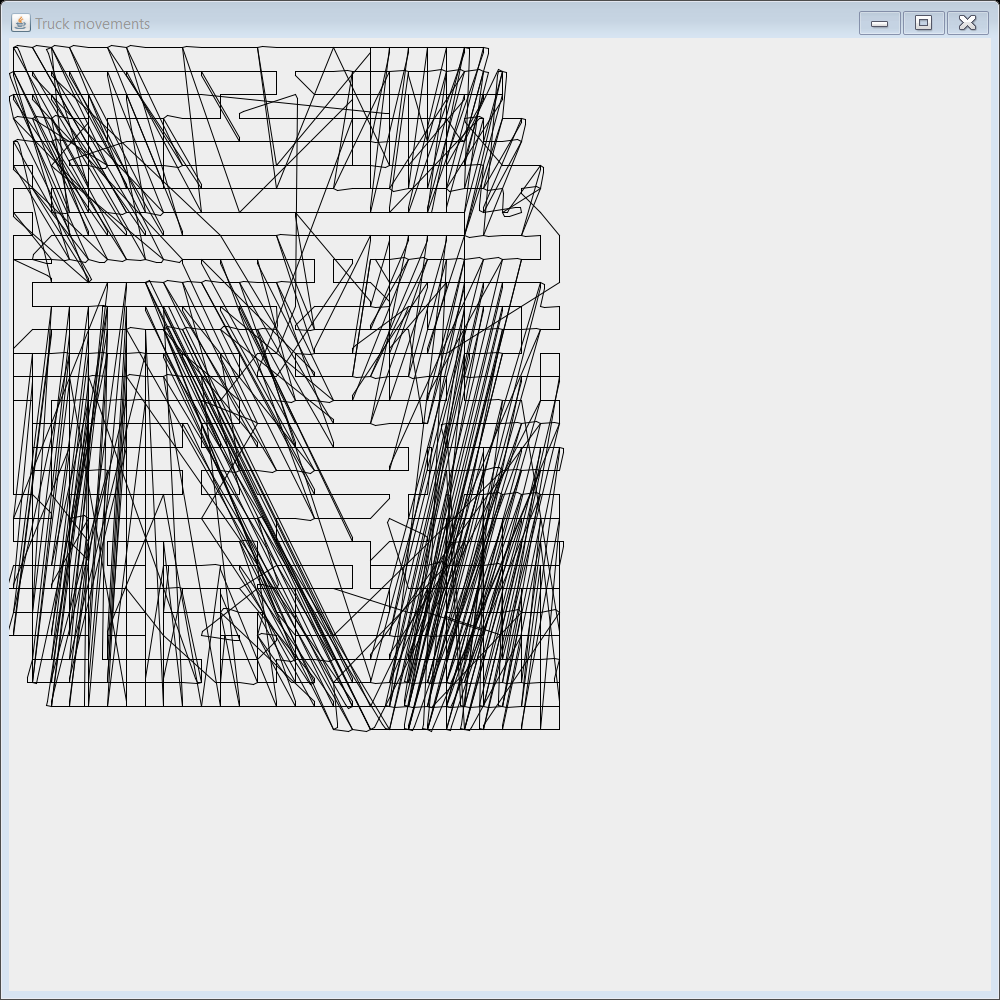
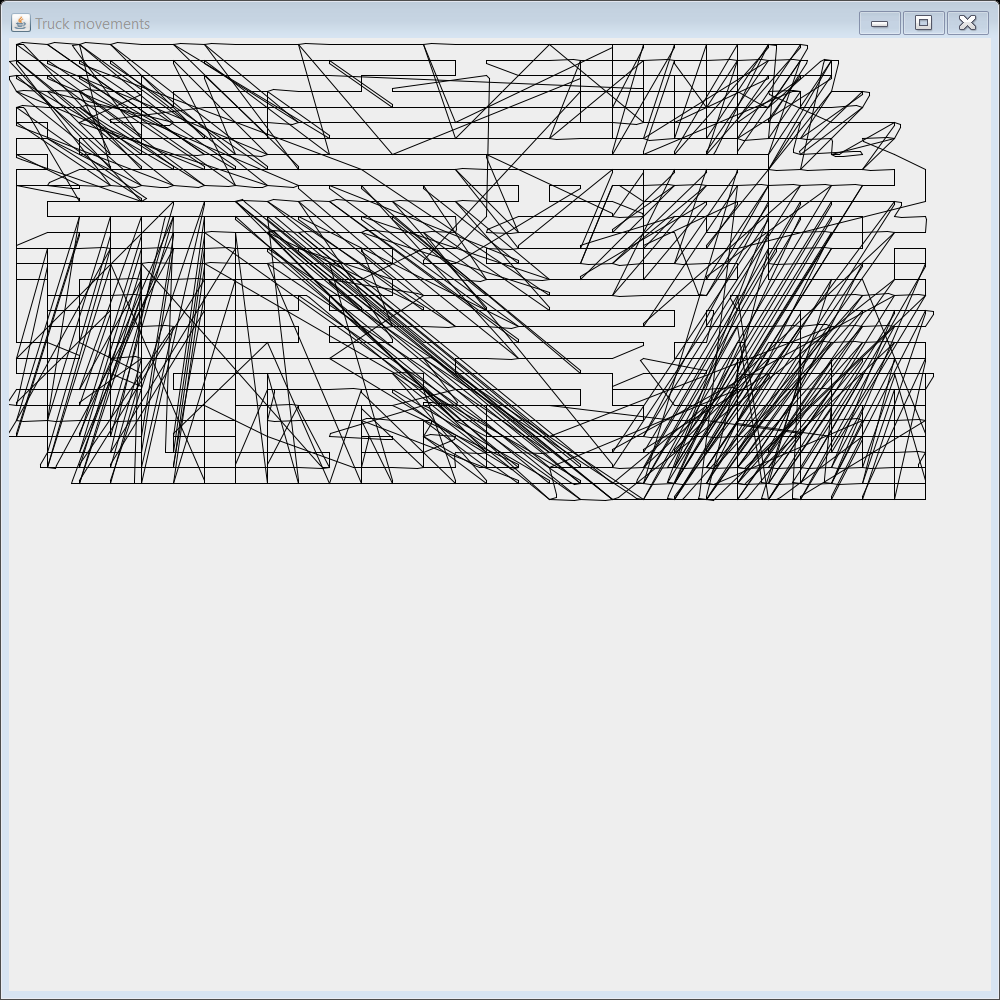
Two multipliers: for X and Y coordinates

Changed region(s): [[0.0, 0.031, 0.93, 0.744]]

diff --git a/src/PathPrinter.java b/src/PathPrinter.java
@@ -16,11 +16,12 @@ import javax.swing.JFrame;
 public class PathPrinter extends JFrame {
 	private class Printer extends JComponent {
 		ArrayList <Movement> path;
-		double multiplier;
+		double multiplierX, multiplierY;
 		
-		public Printer(ArrayList <Movement> path, double scale) {
+		public Printer(ArrayList <Movement> path, double multiplierX, double multiplierY) {
 			this.path = path;
-			this.multiplier = scale;
+			this.multiplierX = multiplierX;
+			this.multiplierY = multiplierY;
 		}
 		
 		@Override
@@ -31,7 +32,7 @@ public class PathPrinter extends JFrame {
 			g2D.setPaint(Color.BLACK);
 			
 			for(Movement m : path)
-				g2D.draw(new Line2D.Double(m.from.x * multiplier, m.from.y * multiplier, m.to.x * multiplier, m.to.y * multiplier));
+				g2D.draw(new Line2D.Double(m.from.x * multiplierX, m.from.y * multiplierY, m.to.x * multiplierX, m.to.y * multiplierY));
 		}
 	}
 	
@@ -41,14 +42,13 @@ public class PathPrinter extends JFrame {
 		setDefaultCloseOperation(HIDE_ON_CLOSE);
 	}
 	
-	public void print(ArrayList <Movement> path, double multiplier) {
+	public void print(ArrayList <Movement> path, double multiplierX, double multiplierY) {
 		setVisible(true);
-		add(new Printer(path, multiplier));
+		add(new Printer(path, multiplierX, multiplierY));
 	}
 	
-	public void print(ArrayList <Movement> path, double multiplier, String fileName) throws IOException {
-		setVisible(true);
-		add(new Printer(path, multiplier));
+	public void print(ArrayList <Movement> path, double multiplierX, double multiplierY, String fileName) throws IOException {
+		print(path, multiplierX, multiplierY);
 		BufferedImage img = new BufferedImage(getWidth(), getHeight(), BufferedImage.TYPE_INT_RGB);
 		Graphics2D g2d = img.createGraphics();
 		printAll(g2d);

diff --git a/src/Main.java b/src/Main.java
@@ -20,7 +20,7 @@ public class Main {
 				
 				ArrayList <Movement> path = new Solver(field, truck).solve();
 				
-				new PathPrinter().print(path, 3.0, "PathPrinted\\PATH_cellplot" + inputCode + "b_" + capacity + "_.png");
+				new PathPrinter().print(path, 5.0, 2.0, "PathPrinted\\PATH_cellplot" + inputCode + "b_" + capacity + "_.png");
 				
 				long stop = System.currentTimeMillis();
 				
